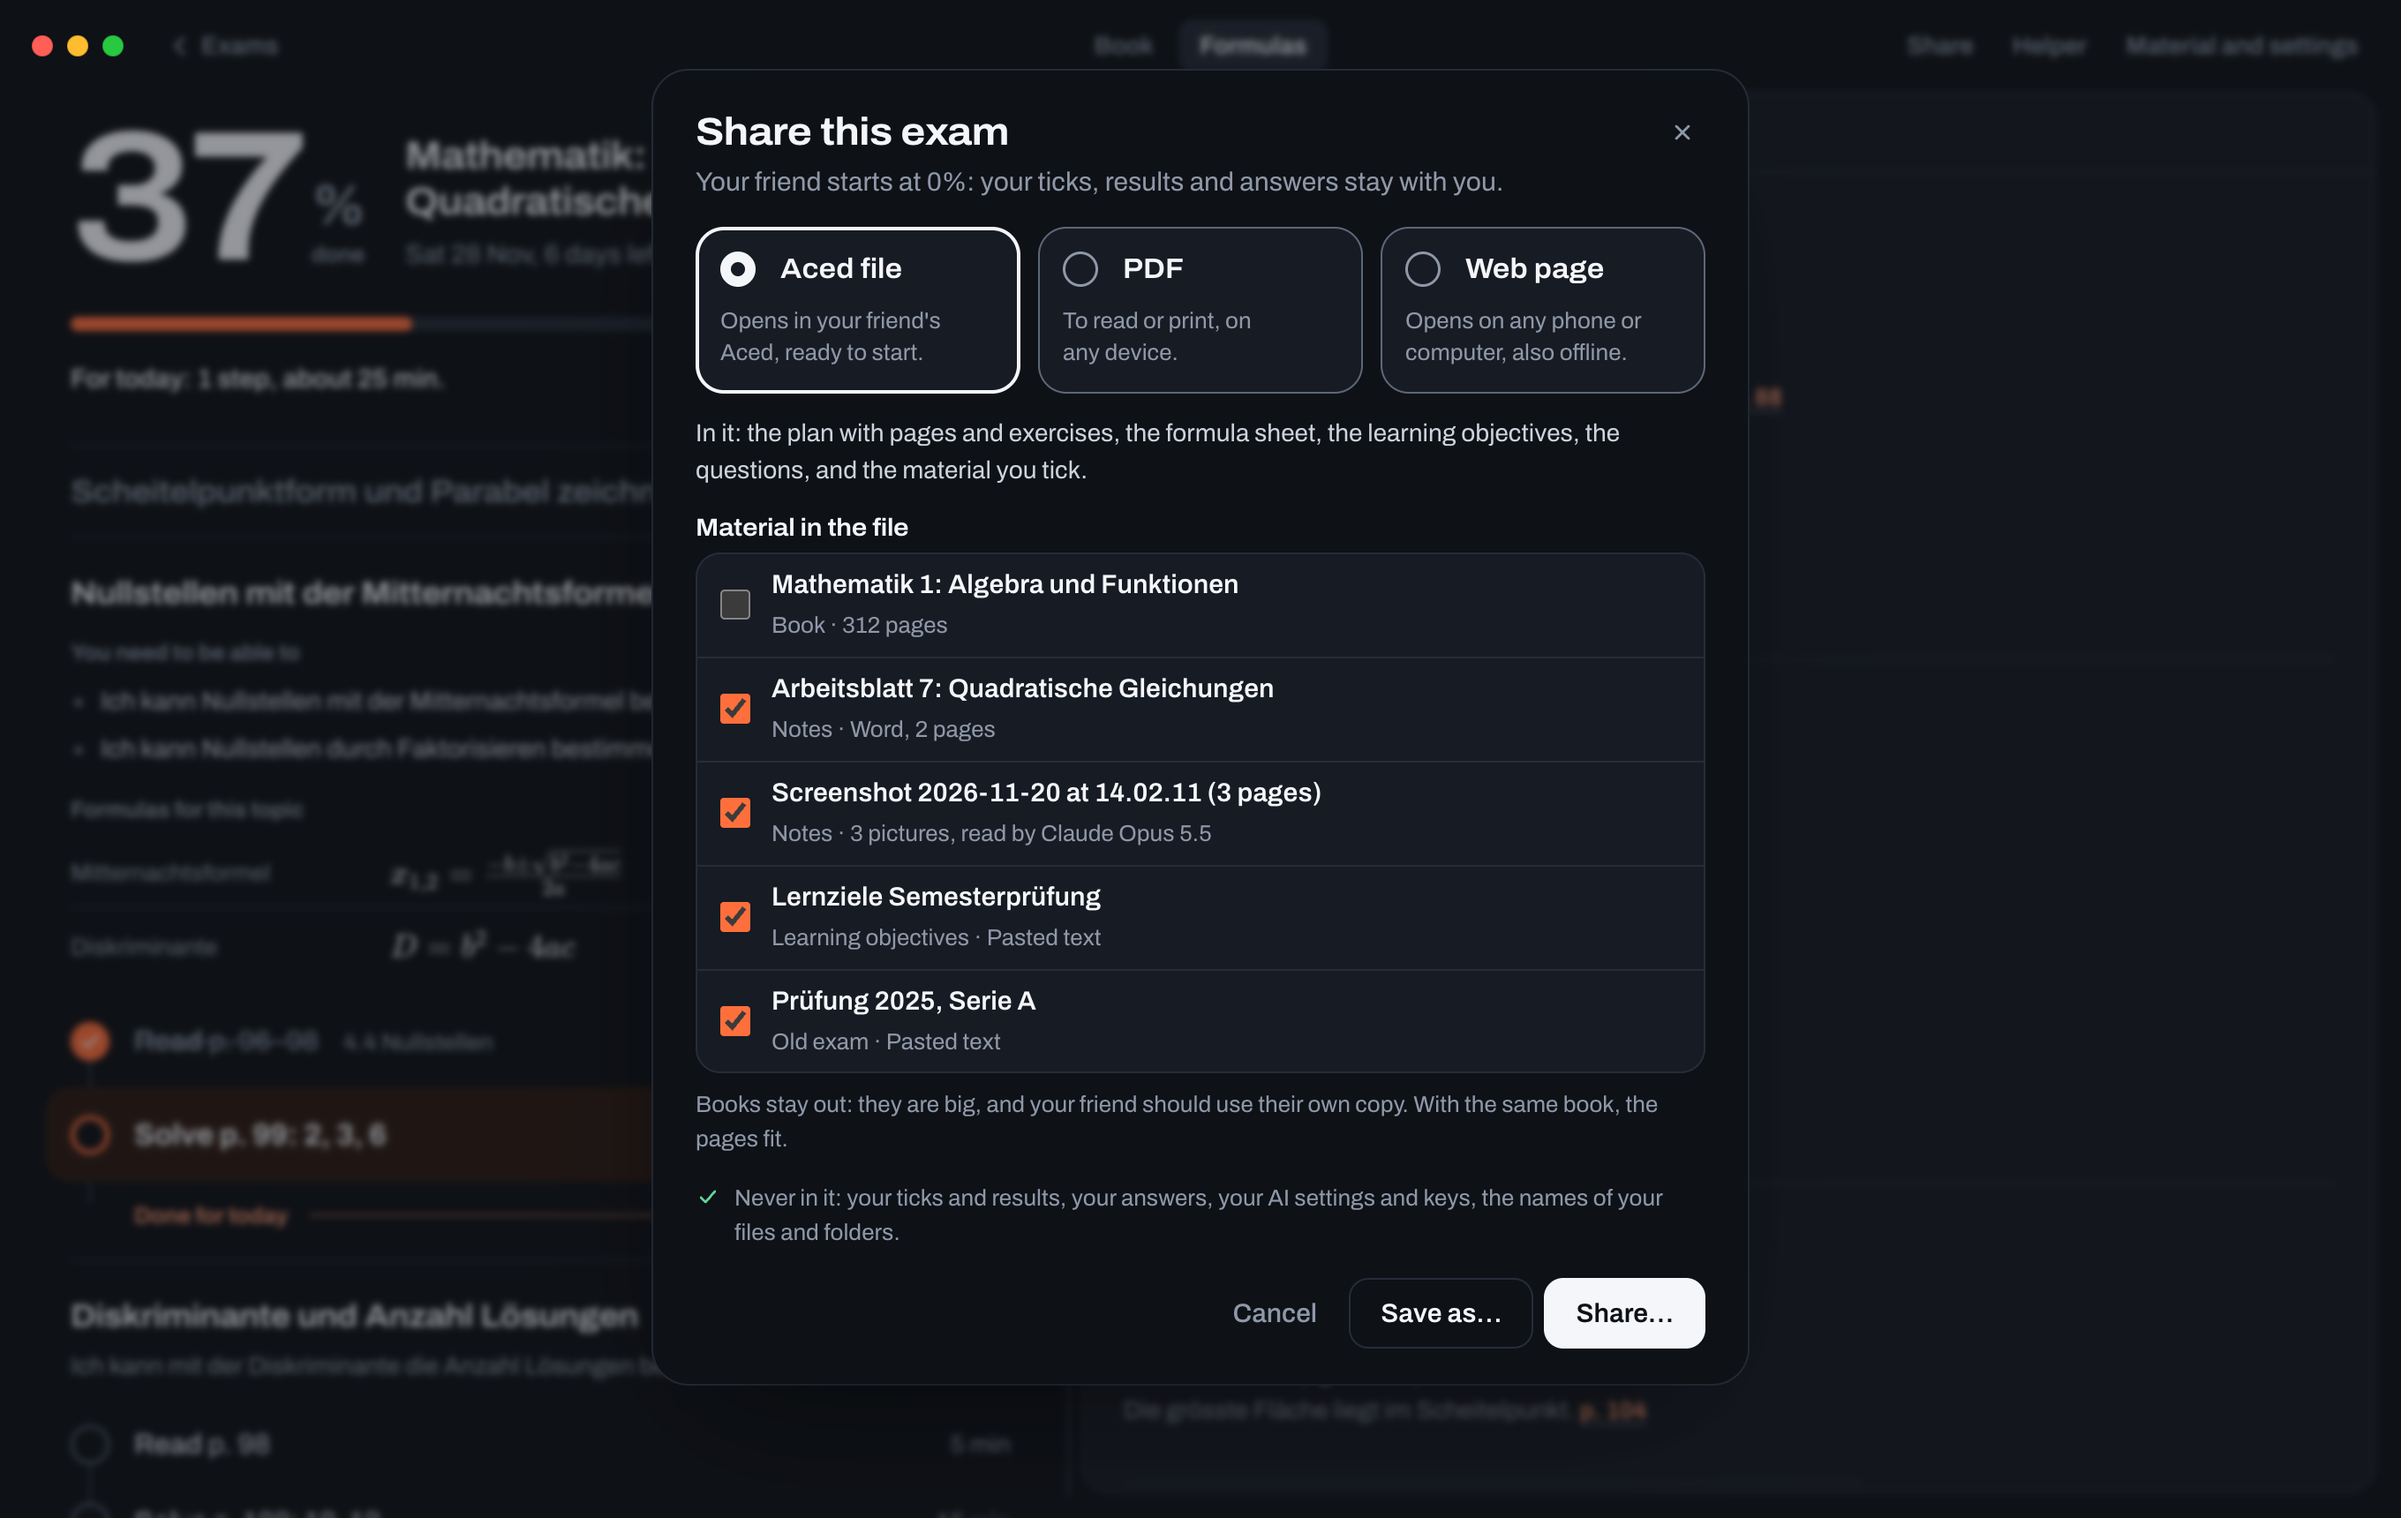
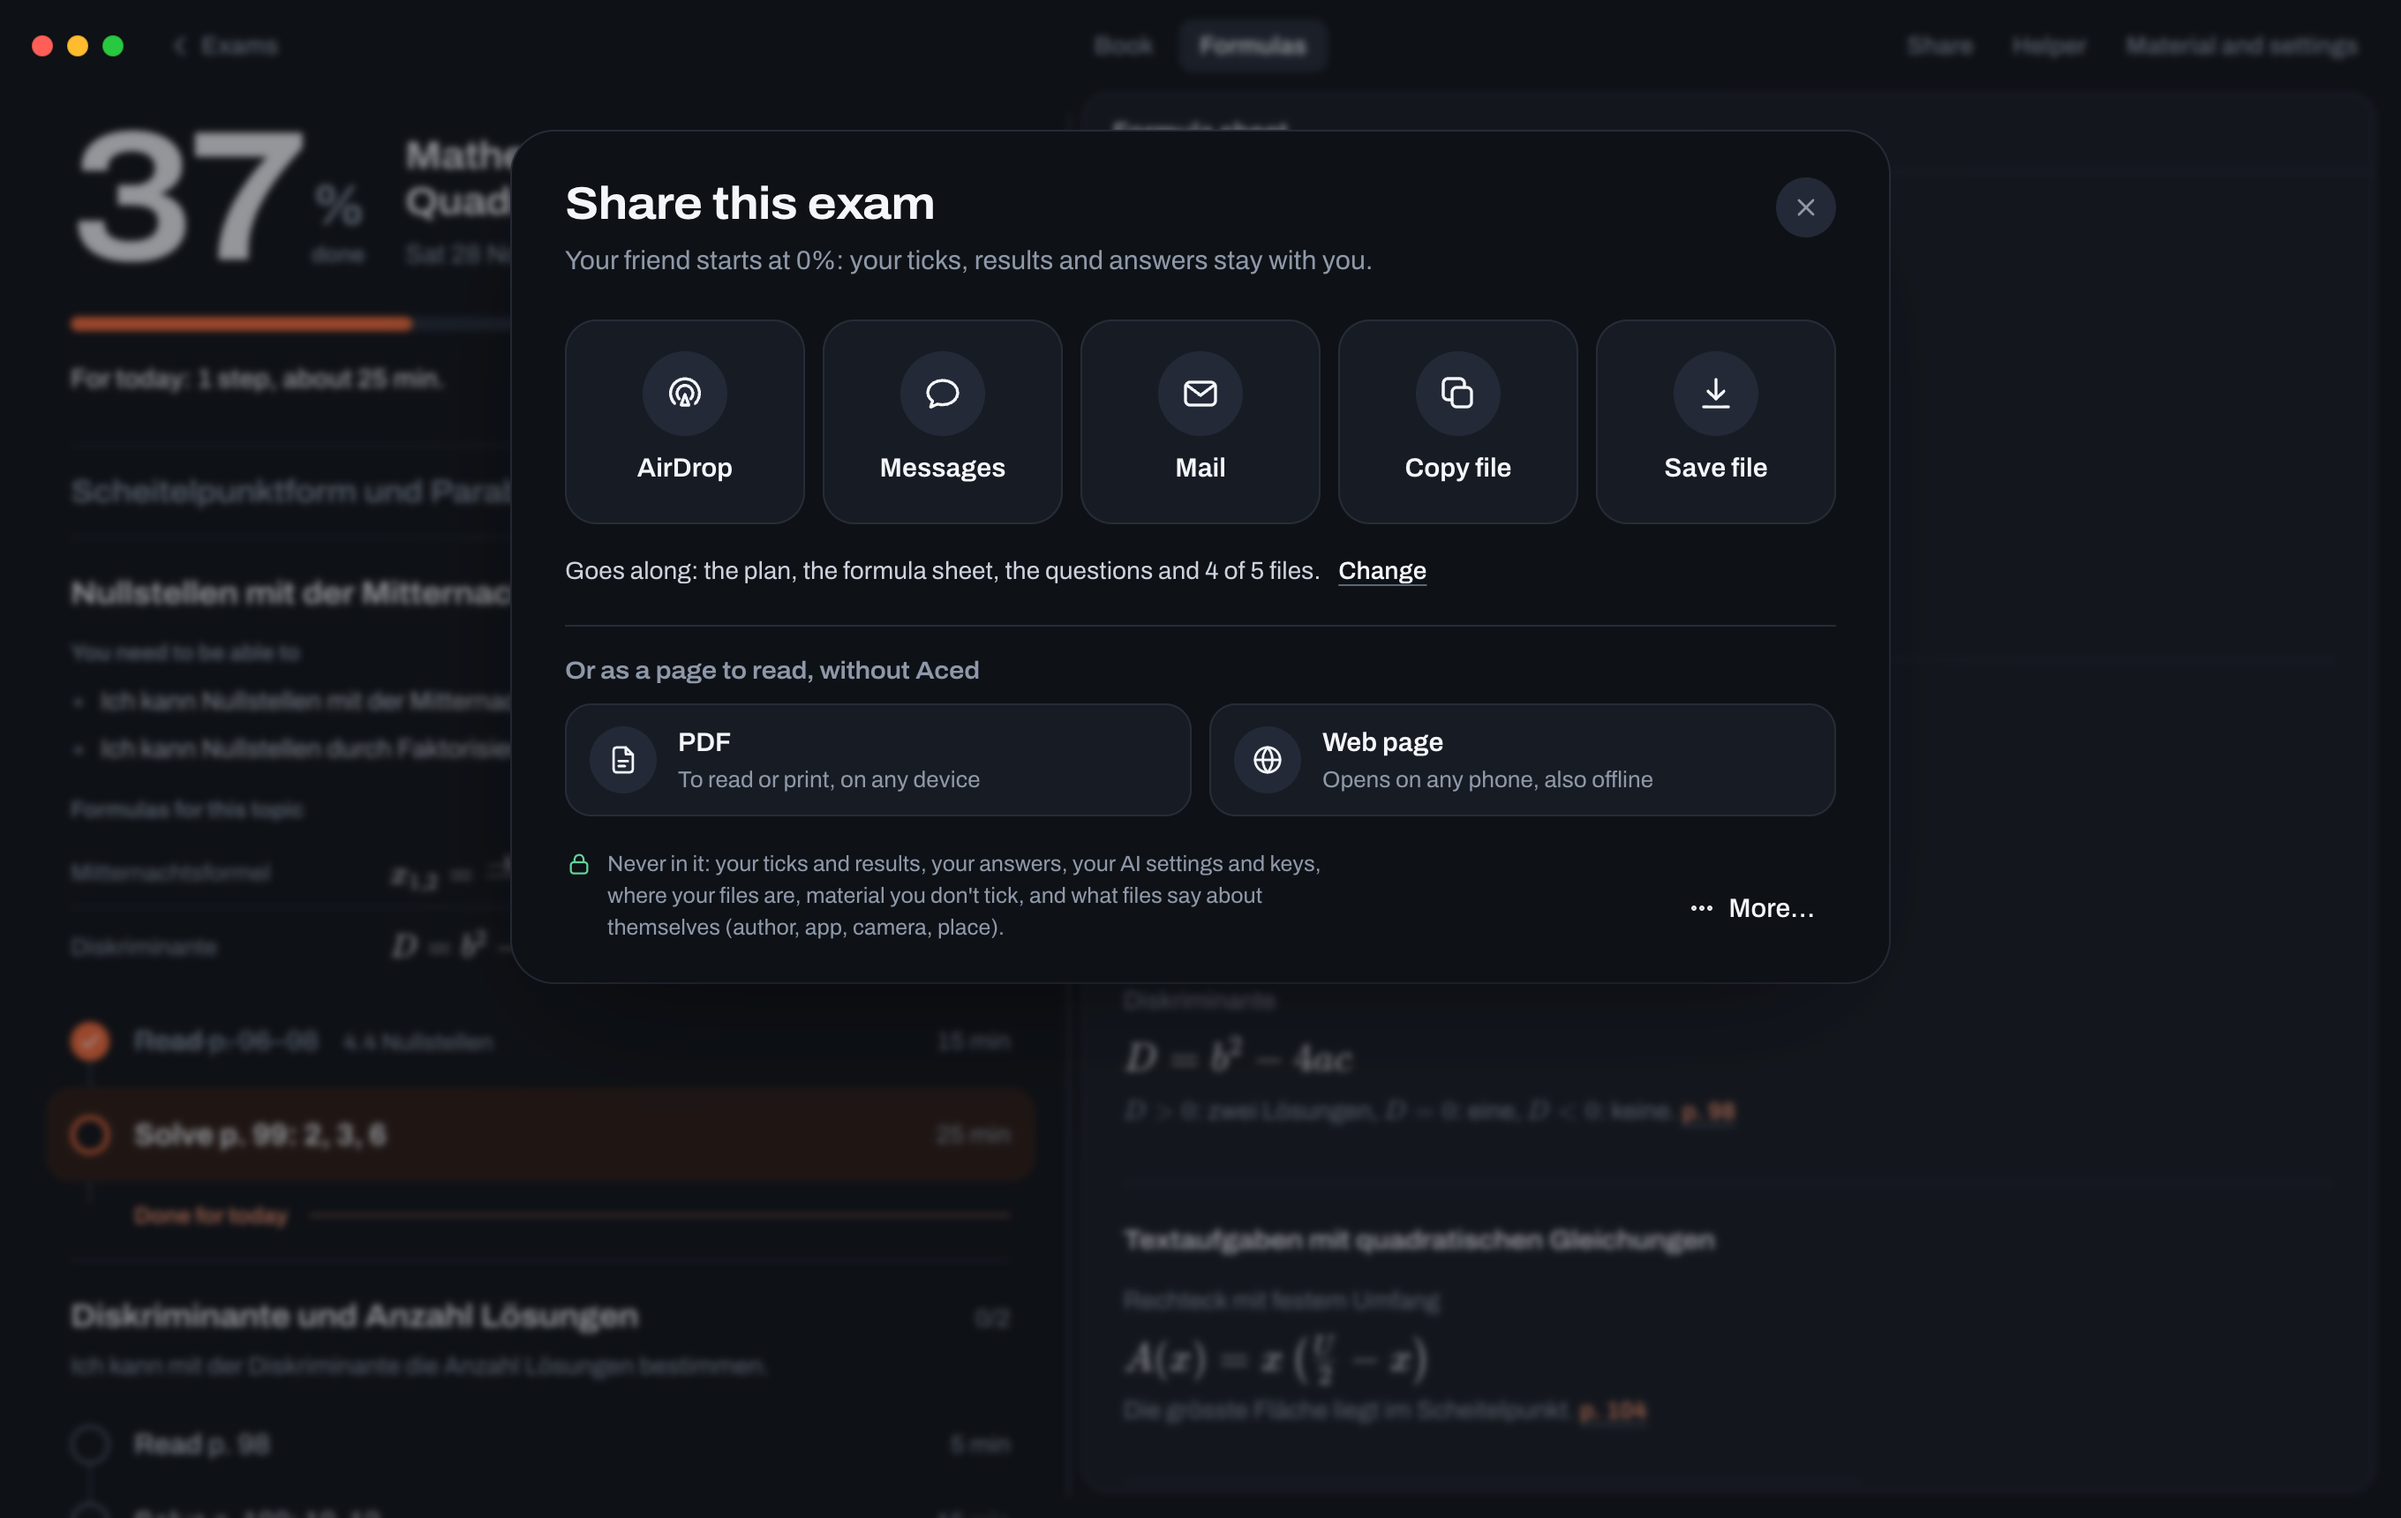
README and pictures for the share window, links and writing in the book
The share section describes the own window: five ways for the Aced file, PDF and web page,
the Mac's menu last, and Copy link only in an Aced with a share service. What leaves the Mac
says what a link sends, in words that hold while there is none. The test table names the new
suites and the share service; the code map the new files. docs/shots: the share window as
this version shows it, without a link.

diff --git a/README.md b/README.md
@@ -16,7 +16,7 @@ exam on everything shows where you stand.
 
 | Share | The web page on a phone | A friend opens it |
 |---|---|---|
-| ![The Share dialog: an Aced file, a PDF or a web page, and which material goes along](docs/shots/share-dialog-light.png) | ![The exam as a web page, on a phone](docs/shots/share-web-phone-light.png) | ![The shared exam at 0%, waiting for the friend's copy of the book](docs/shots/share-friend-light.png) |
+| ![Aced's share window: AirDrop, Messages, Mail, Copy file and Save file, or a PDF or a web page, and which material goes along](docs/shots/share-dialog-light.png) | ![The exam as a web page, on a phone](docs/shots/share-web-phone-light.png) | ![The shared exam at 0%, waiting for the friend's copy of the book](docs/shots/share-friend-light.png) |
 
 More pictures, light and dark: [`docs/shots`](docs/shots) ([all on one sheet](docs/shots/overview.png)).
 The book in the pictures is OpenStax *College Algebra 2e* ([CC BY 4.0](https://creativecommons.org/licenses/by/4.0/),
@@ -30,7 +30,9 @@ answers around it were written by Claude Opus 5.5 through Claude Code in a real 
   p. 255–256", "Solve p. 257: 3, 4, 7"). The next step is marked, a line shows where you are
   done for today, finished topics fold away. A tick is a switch: click again to take it back.
 - **The book beside the plan.** Your book opens inside the app, next to the list. A step jumps to
-  its page. The divider can be dragged, the panel hidden.
+  its page. The divider can be dragged, the panel hidden. You can write in it: pen,
+  highlighter, text notes, eraser and undo, kept per page on your Mac, never in the PDF and
+  never shared.
 - **Formula sheet.** The formulas this exam needs, large, grouped by topic, each with a link to
   the page it comes from. The topic you are on shows its own formulas right in the plan, so
   they are at hand while the panel shows the book. Written once with the strategy and kept.
@@ -46,11 +48,18 @@ answers around it were written by Claude Opus 5.5 through Claude Code in a real 
   badly back on your list, with exercises from the book you have not done yet.
 - **Questions from the AI only where the book has none.** A topic without exercises in the book
   gets a few questions written from your material, and they are labelled as such.
-- **Share an exam with friends.** One button on the exam screen: send the exam as an **Aced
-  file** that opens in your friend's Aced (a double-click is enough), as a **PDF** to read or
-  print, or as a **web page** that opens on any phone or computer, also offline. Then the Mac's
-  own share menu (AirDrop, Messages, Mail …), or "Save as…". Your friend starts at 0%: your
-  ticks, results and answers stay with you. You tick what goes along: your own notes,
+- **Share an exam with friends.** One button on the exam screen opens Aced's own share window,
+  where every way is one click. Five ways send the exam as an **Aced file** that opens in your
+  friend's Aced (a double-click is enough): **AirDrop**, **Messages** and **Mail** open with
+  the file attached, **Copy file** puts it on the clipboard to paste into WhatsApp, Messages or
+  Mail, and **Save file** saves it (in Downloads, unless you choose another place). Below them,
+  the exam as a page to read without Aced: a **PDF** to read or print, or a **web page** that
+  opens on any phone or computer, also offline. The Mac's own share menu comes last ("More…").
+  If AirDrop, Messages or Mail is not set up on your Mac, the window says so. **Copy link**
+  appears only in an Aced that has a share service: then it comes first, and your friend opens
+  the exam from a link (see "What leaves your Mac"); without one, the window has no link. Your
+  friend starts at 0%: your ticks, results and answers stay with you. You tick what goes along
+  ("Change" in the window): your own notes,
   worksheets and screenshots, each with the text your Aced (or your AI) read from it, so
   opening the file reads nothing again and costs nothing. What you don't tick stays home
   entirely. Books stay out by default (they are big, and your friend should use their own
@@ -121,6 +130,12 @@ What leaves your Mac, and where to:
   accepted for a server on your own computer. Its key is forgotten when you change the address.
 - **Keys** are stored through the Mac's keychain and are used only in the app's main process,
   never in the window.
+- **With "Copy link":** Aced makes links only when it has a share service (an Aced without one
+  has no "Copy link", and nothing goes anywhere). Then the Aced file you share is locked on your
+  Mac with a key made for that one link (AES-256-GCM), and only the locked bytes go to that
+  service, which keeps them for 30 days and cannot read them: the key is only in the link,
+  after `#`, the part of an address that browsers never send to a server. Whoever has the link
+  can open the exam. A link that is opened is fetched from that service and nowhere else.
 
 Before a large run you see an estimate of tokens and, where the price is known, cost, and how
 long it usually takes. Reading pictures is not asked first: a page costs about 3,000 tokens in
@@ -180,10 +195,13 @@ them misbehaves for you, please [open an issue](https://github.com/KorelUyar/ace
   checked and cut to size, nothing in it may name a place on your Mac, the text that comes along
   is used only when it fits its PDF page for page, ids that every JavaScript object has
   (`constructor`, `__proto__` …) are refused, and a damaged file or one from a newer Aced gets a
-  sentence instead of an exam. Opening one asks no AI. What never goes into an Aced file, a PDF
-  or a web page: your ticks, results and answers, your AI settings and keys, where your files
-  are (no folders, no paths), material you did not tick, and anything about your Mac or your
-  account. Material you tick goes along with its title (its file name, unless you renamed it).
+  sentence instead of an exam. Opening one asks no AI. A link is checked the same way: Aced takes
+  only links of its own form, fetches only from its own share service whatever the link says,
+  and opens only what unlocks with the link's key, then like a file. What never goes into an
+  Aced file, a link, a PDF or a web page: your ticks, results and answers, your AI settings and
+  keys, what you wrote in the book, where your files are (no folders, no paths), material you
+  did not tick, and anything about your Mac or your account. Material you tick goes along with
+  its title (its file name, unless you renamed it).
   Every PDF in an Aced file is a clean copy, drawn anew: without the document's information
   (author, title, the app that made it), its XMP metadata, attachments and links, and with what
   its photos say about themselves (camera, owner, place, time) blanked. The PDF and the web
@@ -247,14 +265,15 @@ npm run sample   # the app on invented exams, nothing is saved
 
 | | |
 |---|---|
-| `npm test` | planner, results in every notation, page search, store (damaged file, backup, a file from 0.1), reference check, the engine and every key-based provider (pictures included) against a local stand-in server; every file format, made on this Mac, with the hostile kind (a zip bomb, an external entity, scripts and pictures from a server, a picture of 400 megapixels); and sharing: the sample exam sent from one fresh profile and opened in another, and hostile Aced files |
-| `npm run smoke` | clicks through the app in a hidden window: an empty start up to a final exam (with a real file drop), the sample exams, a damaged data file, material handed over without the Finder (a folder, ⌘V of a screenshot, of files and of text, picture data from a browser), and sharing (the Share dialog, an Aced file opened from the Finder, its book added) |
+| `npm test` | planner, results in every notation, page search, store (damaged file, backup, a file from 0.1), reference check, the engine and every key-based provider (pictures included) against a local stand-in server; every file format, made on this Mac, with the hostile kind (a zip bomb, an external entity, scripts and pictures from a server, a picture of 400 megapixels); and sharing: the sample exam sent from one fresh profile and opened in another, and hostile Aced files; links: locking and unlocking, hostile and broken links, the share service's limits and its 30 days, run against a service on this Mac; and what is written in a book, kept and checked |
+| `npm run smoke` | clicks through the app in a hidden window: an empty start up to a final exam (with a real file drop), the sample exams, a damaged data file, material handed over without the Finder (a folder, ⌘V of a screenshot, of files and of text, picture data from a browser), and sharing (the share window's Save file, PDF and web page, an Aced file opened from the Finder, its book added); then the share window without and with a share service, AirDrop, Messages, Mail and Copy file (with the Mac's part stood in for), a link made against a service on this Mac and opened by a friend, hostile and run-out links, and writing in the book with the mouse (zoom, undo, eraser, notes) |
 | `npm run checks` | keyboard only, the wizard's edges, time in total, percent and German scale, reduced motion |
 | `electron scripts/window-check.js` | opens a real window for a few seconds: traffic lights, minimum size, date field |
 | `electron scripts/e2e.js <book.pdf> <objectives.txt> <outDir>` | the whole path for real through Claude Code (costs tokens) |
 | `electron scripts/e2e-formats.js <outDir>` | the same for screenshots, a Word file with formulas and an Excel file: read, planned, the book at the right page, found by the helper (costs tokens) |
 | `electron scripts/wrong-key.js` | asks the real Anthropic and OpenRouter services with a key that is not one |
 | `scripts/fixtures/claude-stub.sh` | a stand-in for the `claude` command with prepared answers, so the tests can play every state (not signed in, expired, usage limit, offline, a slow run) without touching a real login |
+| `node service/server.js` | the share service behind links, on this Mac (its settings are in its first lines; `service/Dockerfile` and `service/aced-share.service` run it on a server). `ACED_LINK_HOST=http://127.0.0.1:8790 npm start` points a run from the source folder at it |
 | `npm run shots` | the pictures in `docs/shots` from the sample exams; with a data folder as third argument to `scripts/shots.js`, the ones with a real book |
 | `npm run dist` | `dist/Aced-macOS.zip`: universal, signed ad hoc |
 
@@ -268,12 +287,18 @@ Where things are:
 - `src/search.js`: finds the pages of a book a question is about.
 - `src/ai/`: the four providers behind one `ask()` that checks the answer against a schema.
 - `src/files.js`, `src/pdf-worker.js`, `src/ocr.js`, `native/ocr.swift`: the library, and reading
-  PDFs. The Swift helper also puts pictures on PDF pages and makes pictures of pages for the AI.
+  PDFs. The Swift helper also puts pictures on PDF pages, makes pictures of pages for the AI, and
+  hands files to AirDrop, Messages, Mail and the clipboard.
 - `src/convert.js`, `src/convert-worker.js`, `src/formats/`, `src/print.js`: every other format to
   a PDF (the readers run in a process of their own; pages are printed with scripts off).
 - `src/see.js`: the AI reading pictures.
 - `src/share.js`, `src/export.js`, `ui/share.js`: sharing: the Aced file (written and read),
-  and the exam as one page (the PDF and the web page).
+  the exam as one page (the PDF and the web page), and the share window.
+- `src/mac-share.js`: AirDrop, Messages, Mail and the clipboard, through the Swift helper.
+- `src/link.js`, `service/`: links: the Aced file locked on the Mac, and the small service that
+  keeps it for 30 days and serves the page a link opens. The service's address is `HOST` in
+  `src/link.js`; empty, there are no links.
+- `ui/ink.js`, `src/ink.js`: writing in the book, and where it is kept.
 - `src/store.js`, `src/secrets.js`: what is kept, and the keys.
 - `ui/`: the interface. Plain HTML, CSS and JavaScript modules, no bundler; Preact with htm,
   KaTeX, pdf.js and the Archivo typeface are vendored in `ui/vendor`. `ui/i18n.js` holds all
